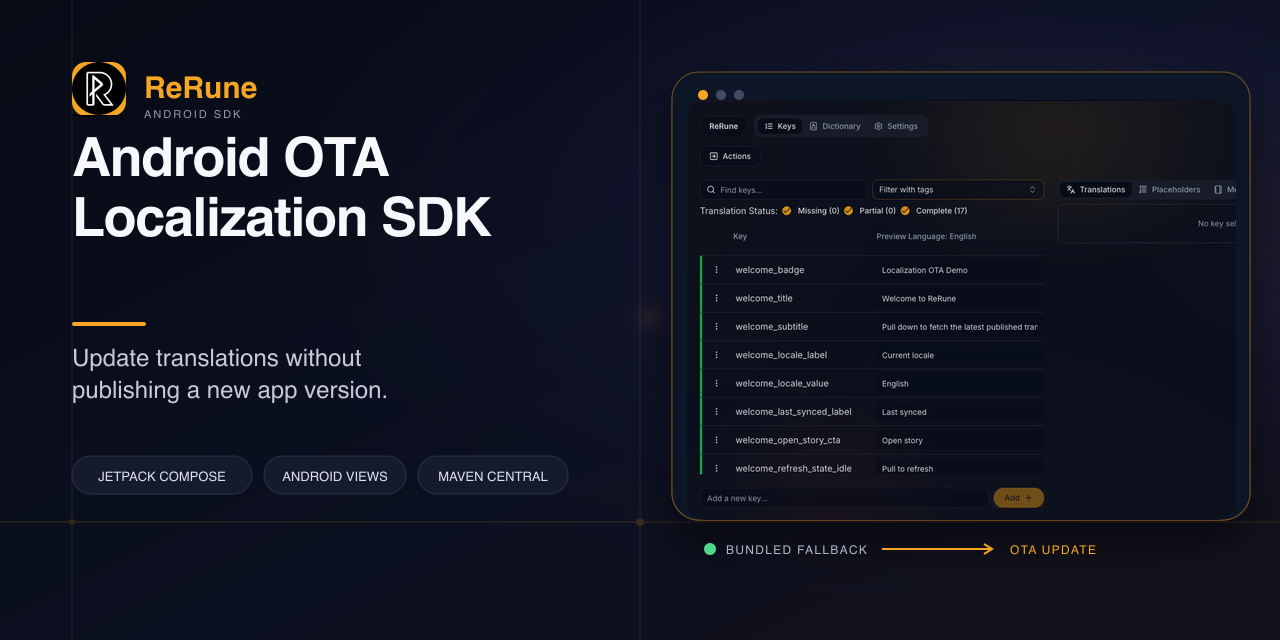
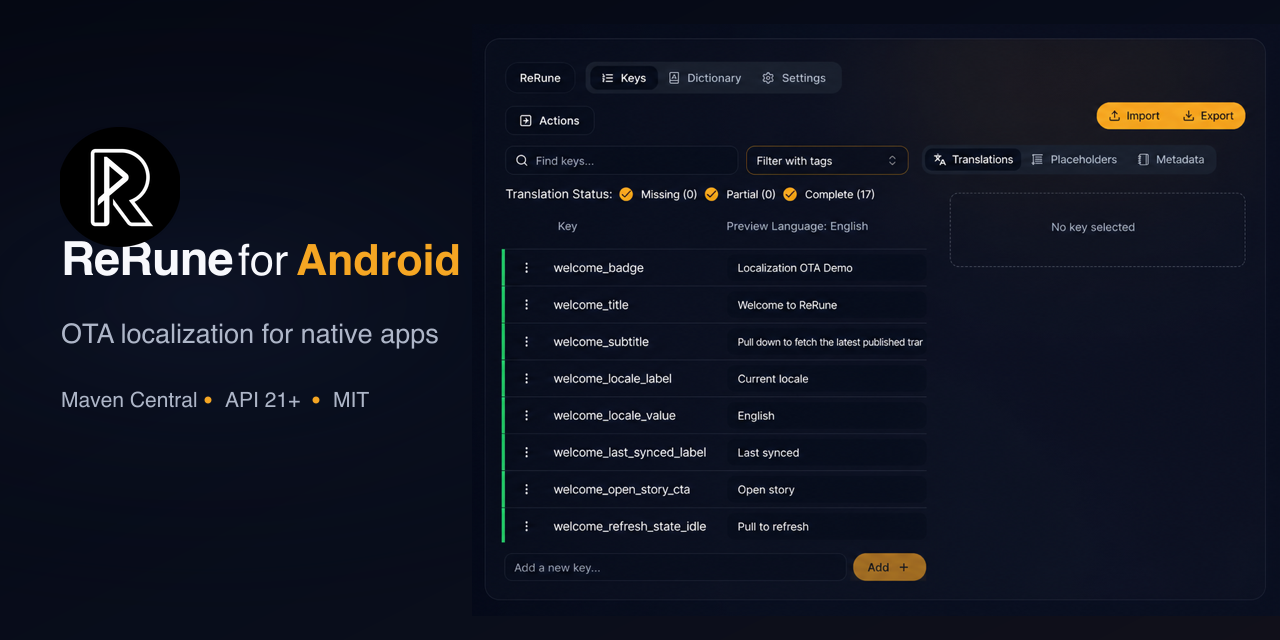
docs: align Android social preview

diff --git a/.github/social-preview-philosophy.md b/.github/social-preview-philosophy.md
@@ -1,26 +1,27 @@
-# Signal Forge
+# Platform Continuum
 
-Signal Forge treats software as a living system of controlled pulses: dark
-fields establish calm, while precise amber signals reveal where change enters
-and travels. Space is structural rather than decorative. Every plane, crop, and
-line should feel deliberately engineered and meticulously crafted.
+Platform Continuum treats a product family as one visual system expressed
+through disciplined variations. A deep navy field establishes continuity while
+one warm accent identifies the active platform. Every surface is meticulously
+crafted so related artifacts feel unmistakably connected without becoming
+mechanical copies.
 
-Color carries hierarchy. Near-black navy creates depth, warm amber marks the
-active signal, and restrained white typography provides clarity without visual
-noise. The palette should feel native to a sophisticated developer tool, with
-painstaking contrast calibration and master-level restraint.
+Space divides into two confident territories: a quiet editorial statement and
+a luminous product window. The division is balanced through scale rather than
+hard borders. Painstaking alignment makes the composition feel stable at full
+resolution and instantly legible when reduced to a small social card.
 
-Scale communicates confidence. A small brand mark establishes authorship, a
-single large statement anchors the composition, and the product interface acts
-as evidence rather than explanation. Repetition appears only in subtle status
-lines and compact capability labels, producing rhythm without clutter.
+Color communicates role. White carries the product name, amber marks the
+platform and live actions, and muted blue-gray supports compatibility details.
+The narrow palette is calibrated with master-level restraint so the interface
+remains rich without competing with the message.
 
-The composition balances a quiet editorial field against one precisely framed
-software surface. The interface is cropped to protect private context and to
-focus attention on translation keys. Every boundary, shadow, and alignment
-should show the care of countless refinements by an expert visual craftsman.
+The product view is evidence, not decoration. It is cropped to remove private
+context and emphasize the translation-key workflow, then framed with subtle
+light and depth. This treatment should feel like the product of countless hours
+of expert refinement rather than a raw screenshot.
 
-Typography remains sparse and exact. Words function as visual coordinates:
-product, category, outcome, compatibility. Nothing competes with the central
-idea, and every element retains generous breathing room at small social-card
-sizes.
+Typography stays sparse: identity, category, compatibility. A large symbol
+anchors the rhythm, while exact spacing and controlled weight changes make each
+word part of the visual architecture. Nothing is ornamental; every element
+earns its place through clarity and painstaking craftsmanship.
